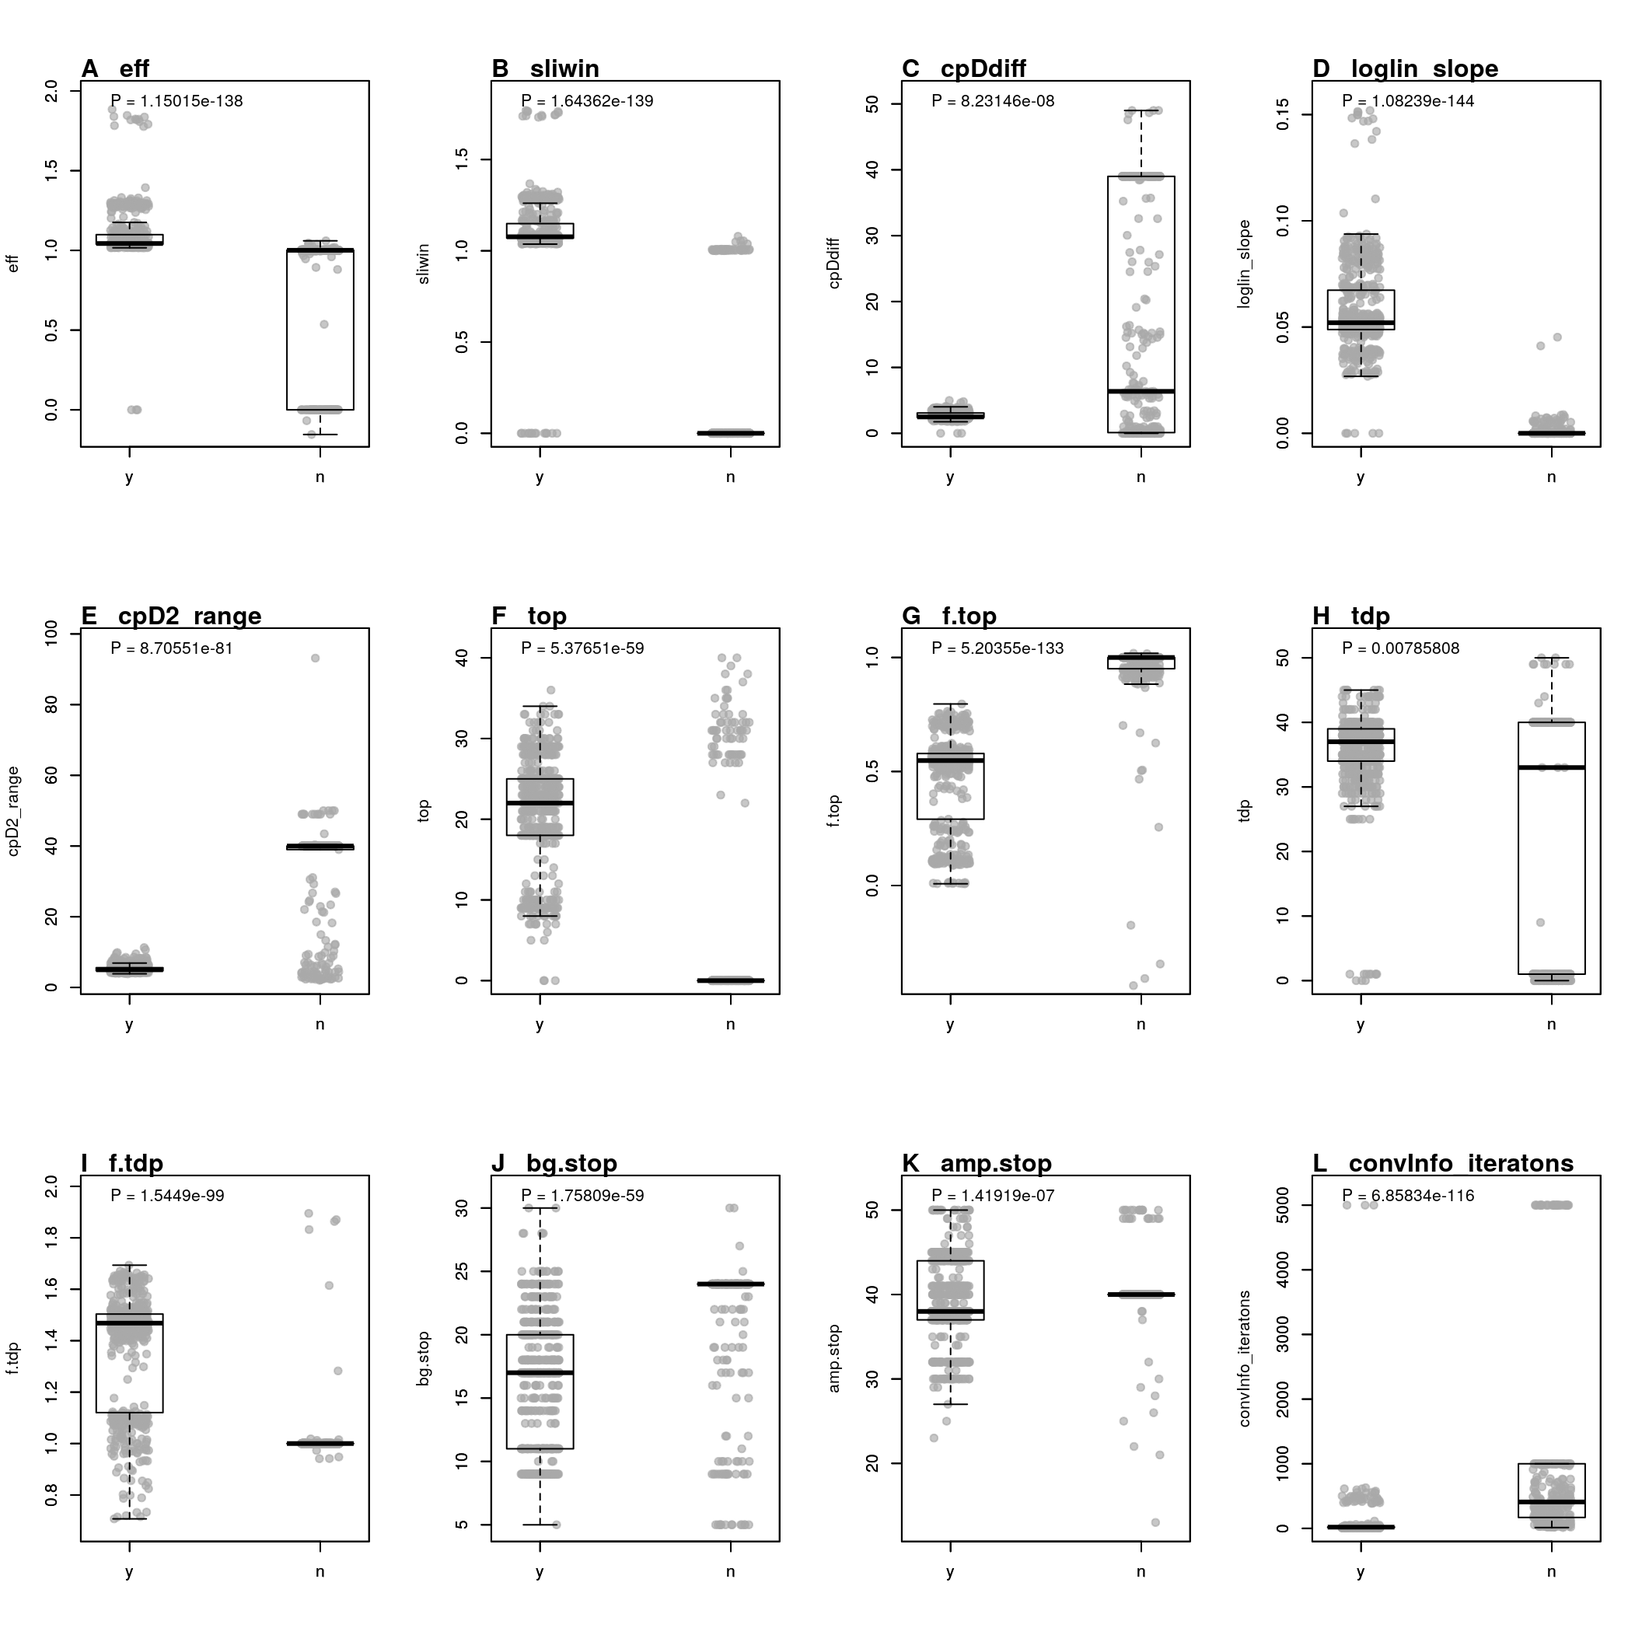
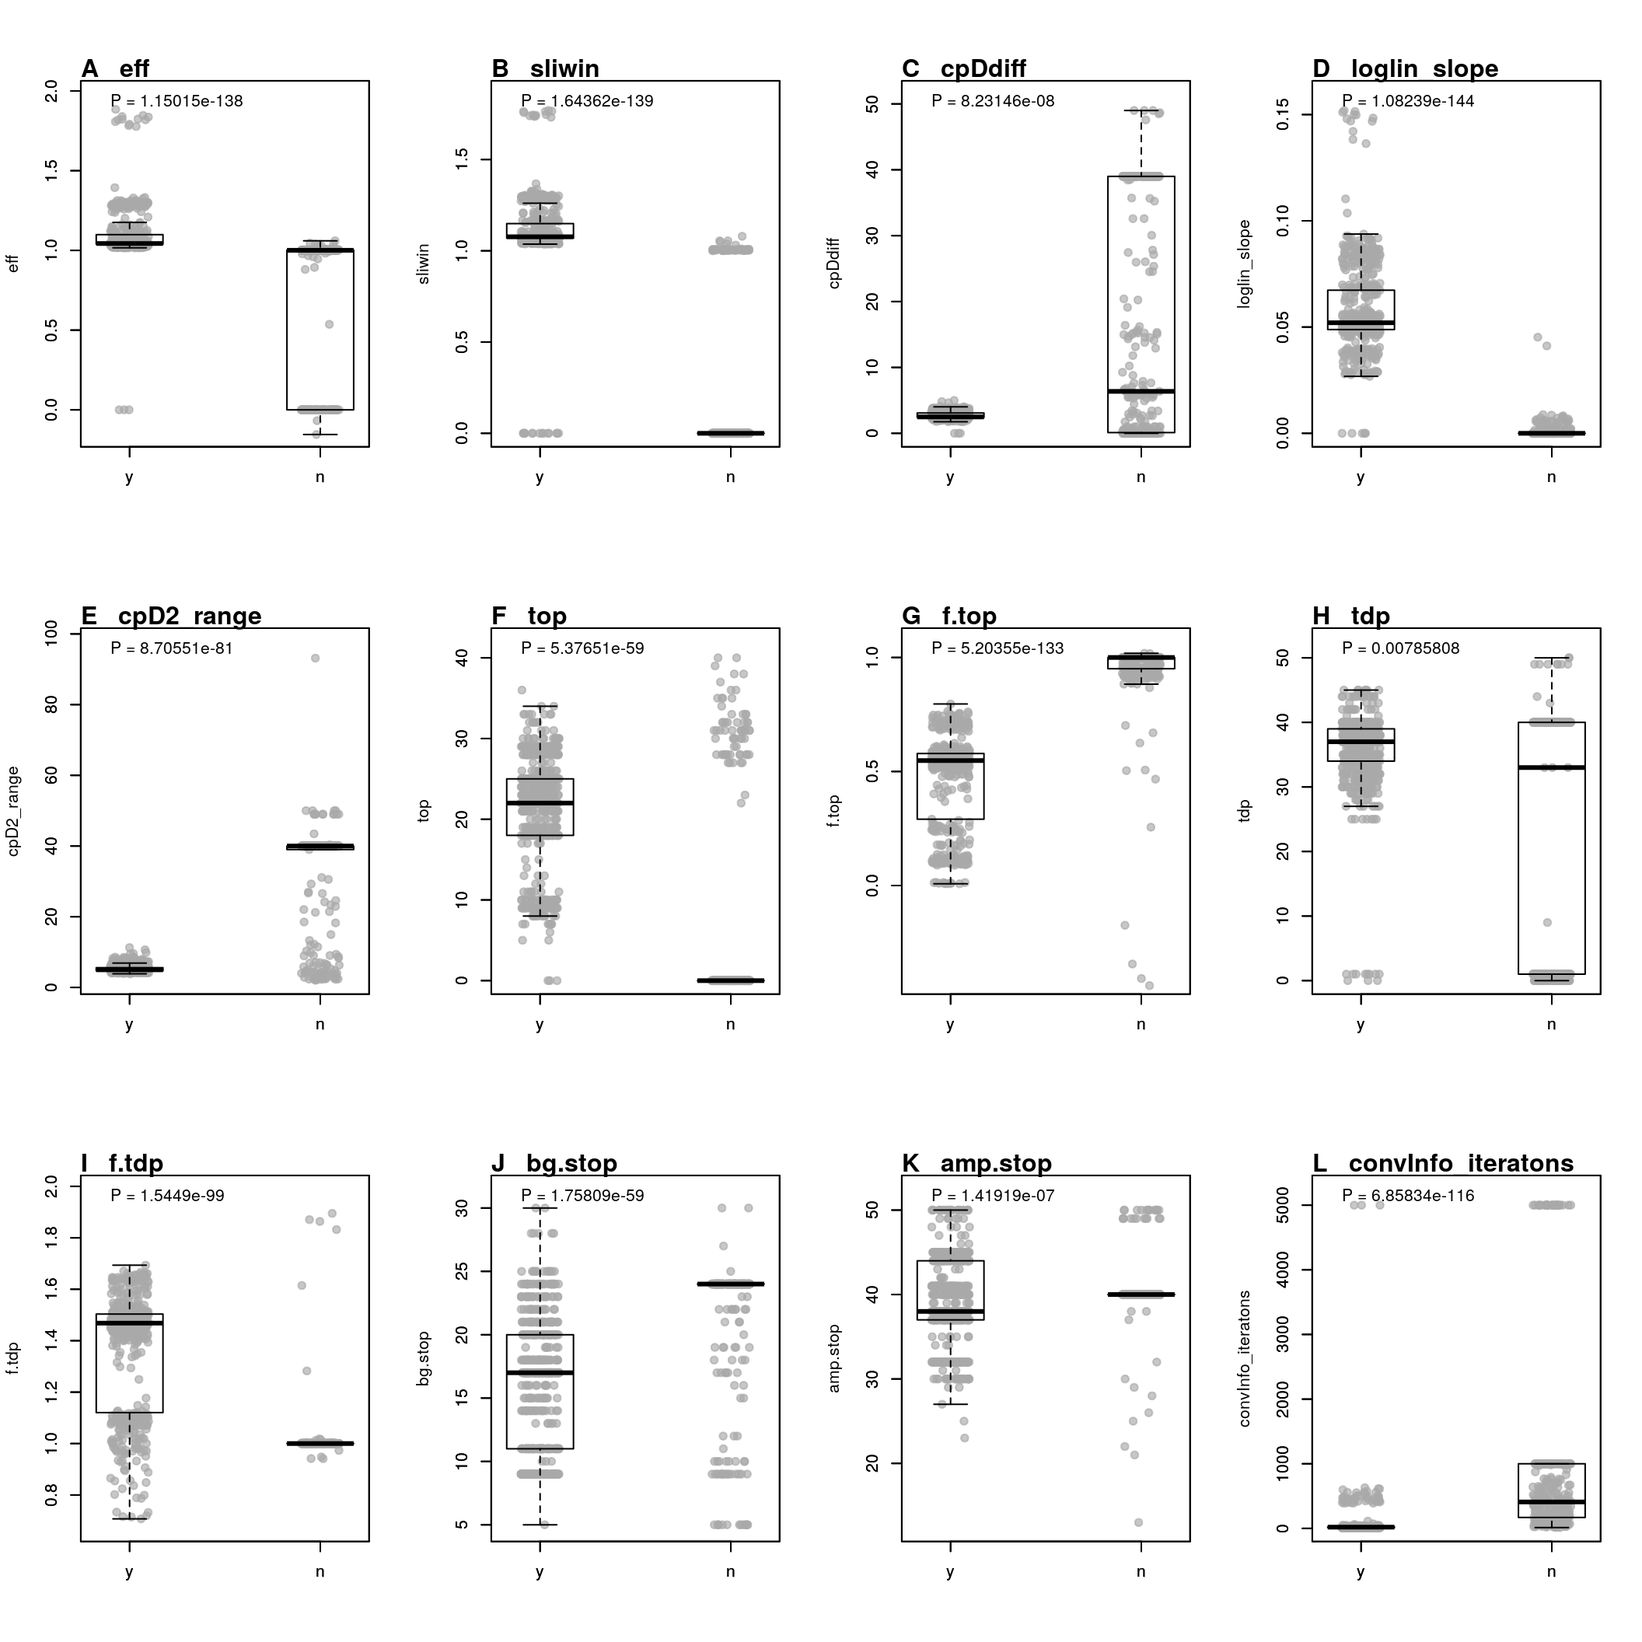
pcrfit_single and winklR are now more robust do noise in data

diff --git a/docs/reference/winklR.html b/docs/reference/winklR.html
@@ -114,9 +114,6 @@ The output contains the angle." />
   </a>
   <ul class="dropdown-menu" role="menu">
     <li>
-      <a href="../articles/PCRedux.Rmd_xuOEaG.rkward_preview.html">PCRedux package - an overview</a>
-    </li>
-    <li>
       <a href="../articles/SI1.html">Algorithms for Automatized Detection of Hook Effect-bearing Amplification Curves</a>
     </li>
   </ul>
@@ -185,7 +182,7 @@ data should be normalized to the 99 percent percentile of the amplification curv
     <tr>
       <th>preprocess</th>
       <td><p>is a logical parameter, which indicates if the amplification curve
-data should be smoothed (Savitzky-Golay smoothing filter, useful for noisy, jagged data).</p></td>
+data should be smoothed (moving average filter, useful for noisy, jagged data).</p></td>
     </tr>
     </table>
 
@@ -205,38 +202,38 @@ data should be smoothed (Savitzky-Golay smoothing filter, useful for noisy, jagg
   <span class='kw'>main</span> <span class='kw'>=</span> <span class='st'>"RAS002 data set"</span>, <span class='kw'>lty</span> <span class='kw'>=</span> <span class='fl'>1</span>, <span class='kw'>type</span> <span class='kw'>=</span> <span class='st'>"l"</span>
 )</div><div class='img'><img src='winklR-1.png' alt='' width='700' height='433' /></div><div class='input'><span class='no'>res</span> <span class='kw'>&lt;-</span> <span class='fu'>winklR</span>(<span class='kw'>x</span> <span class='kw'>=</span> <span class='no'>RAS002</span>[, <span class='fl'>1</span>], <span class='kw'>y</span> <span class='kw'>=</span> <span class='no'>RAS002</span>[, <span class='fl'>2</span>])
 <span class='no'>res</span></div><div class='output co'>#&gt; $angle
-#&gt; [1] 0.9993859
+#&gt; [1] 0.9992592
 #&gt; 
 #&gt; $origin
 #&gt;               x         y
-#&gt; origin 28.37007 -139.4272
+#&gt; origin 28.40128 -131.7579
 #&gt; 
 #&gt; $p1
 #&gt;           x         y
-#&gt; p1 26.13105 -40.00269
+#&gt; p1 26.03566 -34.89072
 #&gt; 
 #&gt; $p2
-#&gt;        x        y
-#&gt; p2 30.52 32.12933
+#&gt;           x        y
+#&gt; p2 30.65694 28.46814
 #&gt; </div><div class='input'><span class='fu'><a href='https://rdrr.io/r/graphics/plot.html'>plot</a></span>(<span class='fu'><a href='https://rdrr.io/r/base/cbind.html'>rbind</a></span>(<span class='no'>res</span>$<span class='no'>origin</span>, <span class='no'>res</span>$<span class='no'>p1</span>, <span class='no'>res</span>$<span class='no'>p2</span>), <span class='kw'>col</span> <span class='kw'>=</span> <span class='fu'><a href='https://rdrr.io/r/base/c.html'>c</a></span>(<span class='st'>"black"</span>, <span class='st'>"green"</span>, <span class='st'>"blue"</span>))</div><div class='img'><img src='winklR-2.png' alt='' width='700' height='433' /></div><div class='input'>
 <span class='fu'><a href='https://rdrr.io/r/graphics/plot.html'>plot</a></span>(<span class='no'>RAS002</span>[, <span class='fl'>1</span>],
   <span class='kw'>y</span> <span class='kw'>=</span> <span class='no'>RAS002</span>[, <span class='fl'>7</span>], <span class='kw'>xlab</span> <span class='kw'>=</span> <span class='st'>"Cycle"</span>, <span class='kw'>ylab</span> <span class='kw'>=</span> <span class='st'>"RFU"</span>,
   <span class='kw'>main</span> <span class='kw'>=</span> <span class='st'>"RAS002 data set"</span>, <span class='kw'>lty</span> <span class='kw'>=</span> <span class='fl'>1</span>, <span class='kw'>type</span> <span class='kw'>=</span> <span class='st'>"l"</span>
 )</div><div class='img'><img src='winklR-3.png' alt='' width='700' height='433' /></div><div class='input'><span class='no'>res</span> <span class='kw'>&lt;-</span> <span class='fu'>winklR</span>(<span class='kw'>x</span> <span class='kw'>=</span> <span class='no'>RAS002</span>[, <span class='fl'>1</span>], <span class='kw'>y</span> <span class='kw'>=</span> <span class='no'>RAS002</span>[, <span class='fl'>7</span>])
 <span class='no'>res</span></div><div class='output co'>#&gt; $angle
-#&gt; [1] 0.9999176
+#&gt; [1] 0.8825482
 #&gt; 
 #&gt; $origin
 #&gt;               x         y
-#&gt; origin 35.28768 -19.39072
+#&gt; origin 34.02938 -19.53181
 #&gt; 
 #&gt; $p1
 #&gt;           x         y
-#&gt; p1 28.32055 -4.216406
+#&gt; p1 28.54223 -3.497543
 #&gt; 
 #&gt; $p2
-#&gt;          x       y
-#&gt; p2 24.9437 2.39646
+#&gt;           x         y
+#&gt; p2 36.86464 -1.942804
 #&gt; </div><div class='input'><span class='fu'><a href='https://rdrr.io/r/graphics/plot.html'>plot</a></span>(<span class='fu'><a href='https://rdrr.io/r/base/cbind.html'>rbind</a></span>(<span class='no'>res</span>$<span class='no'>origin</span>, <span class='no'>res</span>$<span class='no'>p1</span>, <span class='no'>res</span>$<span class='no'>p2</span>), <span class='kw'>col</span> <span class='kw'>=</span> <span class='fu'><a href='https://rdrr.io/r/base/c.html'>c</a></span>(<span class='st'>"black"</span>, <span class='st'>"green"</span>, <span class='st'>"blue"</span>))</div><div class='img'><img src='winklR-4.png' alt='' width='700' height='433' /></div><div class='input'>
 <span class='no'>res_angles</span> <span class='kw'>&lt;-</span> <span class='fu'><a href='https://rdrr.io/r/base/unlist.html'>unlist</a></span>(<span class='fu'><a href='https://rdrr.io/r/base/lapply.html'>lapply</a></span>(<span class='fl'>2</span>:<span class='fl'>21</span>, <span class='kw'>function</span>(<span class='no'>i</span>) {
   <span class='fu'>winklR</span>(<span class='no'>RAS002</span>[, <span class='fl'>1</span>], <span class='no'>RAS002</span>[, <span class='no'>i</span>])$<span class='no'>angle</span>

diff --git a/docs/articles/PCRedux.html b/docs/articles/PCRedux.html
@@ -57,9 +57,6 @@
   </a>
   <ul class="dropdown-menu" role="menu">
 <li>
-      <a href="../articles/PCRedux.Rmd_xuOEaG.rkward_preview.html">PCRedux package - an overview</a>
-    </li>
-    <li>
       <a href="../articles/SI1.html">Algorithms for Automatized Detection of Hook Effect-bearing Amplification Curves</a>
     </li>
   </ul>
@@ -553,7 +550,7 @@ Frequently used methods for the analysis of quantification points. A) The amplif
 ##  $ sliwin               : num 1.04
 ##  $ cpDdiff              : num 2.19
 ##  $ loglin_slope         : num 0.0343
-##  $ cpD2_range           : num 4.48
+##  $ cpD2_range           : num 4.62
 ##  $ top                  : num 25
 ##  $ f.top                : num 0.748
 ##  $ tdp                  : num 35
@@ -581,10 +578,10 @@ Frequently used methods for the analysis of quantification points. A) The amplif
 ##  $ mblrr_intercept_pt   : num 0.774
 ##  $ mblrr_cor_pt         : num 0.942
 ##  $ polyarea             : num 0.0409
-##  $ peaks_ratio          : num 0.0117
+##  $ peaks_ratio          : num 0.00922
 ##  $ autocorellation      : num 0.741
 ##  $ cp_e.agglo           : int 2
-##  $ cp_bcp               : int 10
+##  $ cp_bcp               : int 6
 ##  $ amptester_shapiro    : logi FALSE
 ##  $ amptester_lrt        : logi TRUE
 ##  $ amptester_rgt        : logi TRUE
@@ -831,23 +828,23 @@ Concept of the <code>loglin\_slope</code> predictor. The algorithm determines th
 ##     data = train_data)
 ## 
 ## Deviance Residuals: 
-##     Min       1Q   Median       3Q      Max  
-## -3.3024  -0.1641  -0.1641   0.0048   2.9375  
+##      Min        1Q    Median        3Q       Max  
+## -0.52587  -0.13687  -0.13687   0.00016   3.05786  
 ## 
 ## Coefficients:
 ##              Estimate Std. Error z value Pr(&gt;|z|)    
-## (Intercept)   -4.3010     0.5342  -8.051 8.19e-16 ***
-## loglin_slope 215.6052    25.6492   8.406  &lt; 2e-16 ***
+## (Intercept)   -4.6659     0.6184  -7.545 4.54e-14 ***
+## loglin_slope 314.3773    68.4395   4.594 4.36e-06 ***
 ## ---
 ## Signif. codes:  0 '***' 0.001 '**' 0.01 '*' 0.05 '.' 0.1 ' ' 1
 ## 
 ## (Dispersion parameter for binomial family taken to be 1)
 ## 
-##     Null deviance: 632.141  on 455  degrees of freedom
-## Residual deviance:  59.995  on 454  degrees of freedom
-## AIC: 63.995
+##     Null deviance: 632.071  on 455  degrees of freedom
+## Residual deviance:  35.161  on 454  degrees of freedom
+## AIC: 39.161
 ## 
-## Number of Fisher Scoring iterations: 9</code></pre>
+## Number of Fisher Scoring iterations: 11</code></pre>
 <p>Based on the results it can be concluded that the parameters <code>(intercept)</code> and <code>loglin_slope</code> are statistically significant (<em>P</em> &lt; 2e-16). This indicates an association between <code>loglin_slope</code> and the probability that an amplification curve is positive.</p>
 <p>In order to apply the model to a new data set, further steps are necessary. <code><a href="https://rdrr.io/r/stats/predict.html">predict()</a></code> [] is a generic function for predicting the results of a model fitting function (A). All previously split test data is passed to the function argument <code>newdata</code>. By setting the <code>type = 'response'</code> parameter, the <code><a href="https://rdrr.io/r/stats/predict.html">predict()</a></code> function returns probabilities in the form of <span class="math inline">\(P(y=1|X)\)</span>. In the case in hand, it was decided that a decision limit of 0.5 is to be applied. If <span class="math inline">\(P(y=1|X) &lt; 0.5\)</span> then <span class="math inline">\(y = 0\)</span> (amplification curve negative), otherwise <span class="math inline">\(y = 1\)</span> (amplification curves positive).</p>
 <div class="sourceCode" id="cb23"><pre class="sourceCode r"><code class="sourceCode r"><a class="sourceLine" id="cb23-1" title="1"><span class="kw"><a href="https://rdrr.io/r/base/library.html">library</a></span>(PCRedux)</a>

diff --git a/docs/reference/encu.html b/docs/reference/encu.html
@@ -100,9 +100,6 @@ performing the analysis for a single process." />
   </a>
   <ul class="dropdown-menu" role="menu">
     <li>
-      <a href="../articles/PCRedux.Rmd_xuOEaG.rkward_preview.html">PCRedux package - an overview</a>
-    </li>
-    <li>
       <a href="../articles/SI1.html">Algorithms for Automatized Detection of Hook Effect-bearing Amplification Curves</a>
     </li>
   </ul>
@@ -172,8 +169,8 @@ identical to the <code><a href='pcrfit_single.html'>pcrfit_single</a></code> fun
 
 <span class='fu'><a href='https://rdrr.io/r/base/library.html'>library</a></span>(<span class='no'>qpcR</span>)
 <span class='no'>res_encu</span> <span class='kw'>&lt;-</span> <span class='fu'>encu</span>(<span class='no'>testdat</span>[, <span class='fl'>1</span>:<span class='fl'>3</span>])</div><div class='output co'>#&gt; <span class='message'>Loading required package: bcp</span></div><div class='output co'>#&gt; <span class='message'>Loading required package: grid</span></div><div class='input'><span class='no'>res_encu</span></div><div class='output co'>#&gt;   runs  cpD1  cpD2      eff   sliwin cpDdiff loglin_slope cpD2_range top
-#&gt; 1 F1.1 17.49 15.62 1.819425 1.739444    1.87    0.1382870   4.368862  10
-#&gt; 2 F1.2 17.39 15.59 1.782711 1.737737    1.80    0.1421122   4.258406  10
+#&gt; 1 F1.1 17.49 15.62 1.819425 1.739444    1.87    0.1382870   4.527127  10
+#&gt; 2 F1.2 17.39 15.59 1.782711 1.737737    1.80    0.1421122   4.496545  10
 #&gt;        f.top tdp     f.tdp bg.stop amp.stop   b_slope f_intercept
 #&gt; 1 0.01391000  27 0.9712161       9       30 -12.73839   0.9283718
 #&gt; 2 0.01330955  28 0.9853867       9       27 -13.90384   0.7622996
@@ -187,10 +184,10 @@ identical to the <code><a href='pcrfit_single.html'>pcrfit_single</a></code> fun
 #&gt; 1  -0.0003719424       -0.006442819    0.001572672    0.9323391
 #&gt; 2  -0.0002171012       -0.006274295    0.001548088    0.9198655
 #&gt;   mblrr_intercept_pt mblrr_cor_pt   polyarea peaks_ratio autocorellation
-#&gt; 1           1.008902            0 -0.1559269  0.02573190       0.4883720
-#&gt; 2           1.001047            0 -0.1684371  0.03146392       0.4402242
+#&gt; 1           1.008902            0 -0.1559269  0.02584771       0.4883720
+#&gt; 2           1.001047            0 -0.1684371  0.03090811       0.4402242
 #&gt;   cp_e.agglo cp_bcp amptester_shapiro amptester_lrt amptester_rgt amptester_tht
-#&gt; 1          2     10             FALSE          TRUE          TRUE          TRUE
+#&gt; 1          2     14             FALSE          TRUE          TRUE          TRUE
 #&gt; 2          2     12             FALSE          TRUE          TRUE          TRUE
 #&gt;   amptester_slt amptester_polygon amptester_slope.ratio hookreg_hook
 #&gt; 1          TRUE          4.742807             0.2223128            1

diff --git a/docs/reference/run_PCRedux.html b/docs/reference/run_PCRedux.html
@@ -36,7 +36,7 @@
 
 
 <meta property="og:title" content="PCRedux app — run_PCRedux" />
-<meta property="og:description" content="A graphical user interface for compute the properties of amplification curves." />
+<meta property="og:description" content="A graphical user interface for computing the properties of amplification curves. Take a look at the vignette to learn more about the different ways to start the app." />
 <meta name="twitter:card" content="summary" />
 
 
@@ -95,9 +95,6 @@
   </a>
   <ul class="dropdown-menu" role="menu">
     <li>
-      <a href="../articles/PCRedux.Rmd_xuOEaG.rkward_preview.html">PCRedux package - an overview</a>
-    </li>
-    <li>
       <a href="../articles/SI1.html">Algorithms for Automatized Detection of Hook Effect-bearing Amplification Curves</a>
     </li>
   </ul>
@@ -124,7 +121,7 @@
     </div>
 
     <div class="ref-description">
-    <p>A graphical user interface for compute the properties of amplification curves.</p>
+    <p>A graphical user interface for computing the properties of amplification curves. Take a look at the vignette to learn more about the different ways to start the app.</p>
     </div>
 
     <pre class="usage"><span class='fu'>run_PCRedux</span>()</pre>

diff --git a/docs/articles/index.html b/docs/articles/index.html
@@ -93,9 +93,6 @@
   </a>
   <ul class="dropdown-menu" role="menu">
     <li>
-      <a href="../articles/PCRedux.Rmd_xuOEaG.rkward_preview.html">PCRedux package - an overview</a>
-    </li>
-    <li>
       <a href="../articles/SI1.html">Algorithms for Automatized Detection of Hook Effect-bearing Amplification Curves</a>
     </li>
   </ul>
@@ -125,7 +122,6 @@
 
       <ul>
         <li><a href="PCRedux.html">PCRedux package - an overview</a></li>
-        <li><a href="PCRedux.Rmd_xuOEaG.rkward_preview.html">PCRedux package - an overview</a></li>
         <li><a href="SI1.html">Algorithms for Automatized Detection of Hook Effect-bearing Amplification Curves</a></li>
       </ul>
     </div>

diff --git a/docs/reference/hookregNL.html b/docs/reference/hookregNL.html
@@ -100,9 +100,6 @@ amplification curve and extracts the coefficient, which describes the slope." />
   </a>
   <ul class="dropdown-menu" role="menu">
     <li>
-      <a href="../articles/PCRedux.Rmd_xuOEaG.rkward_preview.html">PCRedux package - an overview</a>
-    </li>
-    <li>
       <a href="../articles/SI1.html">Algorithms for Automatized Detection of Hook Effect-bearing Amplification Curves</a>
     </li>
   </ul>

diff --git a/docs/reference/decision_modus.html b/docs/reference/decision_modus.html
@@ -99,9 +99,6 @@ condensed to a single decision (3 x &quot;a&quot;, 2 x &quot;n&quot; -&amp;gt; &
   </a>
   <ul class="dropdown-menu" role="menu">
     <li>
-      <a href="../articles/PCRedux.Rmd_xuOEaG.rkward_preview.html">PCRedux package - an overview</a>
-    </li>
-    <li>
       <a href="../articles/SI1.html">Algorithms for Automatized Detection of Hook Effect-bearing Amplification Curves</a>
     </li>
   </ul>

diff --git a/docs/reference/head2tailratio.html b/docs/reference/head2tailratio.html
@@ -100,9 +100,6 @@ tail of a quantitative PCR amplification curve. In this test, only the head
   </a>
   <ul class="dropdown-menu" role="menu">
     <li>
-      <a href="../articles/PCRedux.Rmd_xuOEaG.rkward_preview.html">PCRedux package - an overview</a>
-    </li>
-    <li>
       <a href="../articles/SI1.html">Algorithms for Automatized Detection of Hook Effect-bearing Amplification Curves</a>
     </li>
   </ul>

diff --git a/docs/reference/autocorrelation_test.html b/docs/reference/autocorrelation_test.html
@@ -103,9 +103,6 @@ autocorrelation and will therefore be &quot;n.s.&quot;." />
   </a>
   <ul class="dropdown-menu" role="menu">
     <li>
-      <a href="../articles/PCRedux.Rmd_xuOEaG.rkward_preview.html">PCRedux package - an overview</a>
-    </li>
-    <li>
       <a href="../articles/SI1.html">Algorithms for Automatized Detection of Hook Effect-bearing Amplification Curves</a>
     </li>
   </ul>

diff --git a/docs/reference/earlyreg.html b/docs/reference/earlyreg.html
@@ -105,9 +105,6 @@ large data sets. Science, 334, 1518-1524 (2011))." />
   </a>
   <ul class="dropdown-menu" role="menu">
     <li>
-      <a href="../articles/PCRedux.Rmd_xuOEaG.rkward_preview.html">PCRedux package - an overview</a>
-    </li>
-    <li>
       <a href="../articles/SI1.html">Algorithms for Automatized Detection of Hook Effect-bearing Amplification Curves</a>
     </li>
   </ul>

diff --git a/docs/reference/hookreg.html b/docs/reference/hookreg.html
@@ -100,9 +100,6 @@ a hook effect (see Barratt and Mackay 2002)." />
   </a>
   <ul class="dropdown-menu" role="menu">
     <li>
-      <a href="../articles/PCRedux.Rmd_xuOEaG.rkward_preview.html">PCRedux package - an overview</a>
-    </li>
-    <li>
       <a href="../articles/SI1.html">Algorithms for Automatized Detection of Hook Effect-bearing Amplification Curves</a>
     </li>
   </ul>

diff --git a/docs/reference/pcrfit_single.html b/docs/reference/pcrfit_single.html
@@ -98,9 +98,6 @@ An example is given in the vignette." />
   </a>
   <ul class="dropdown-menu" role="menu">
     <li>
-      <a href="../articles/PCRedux.Rmd_xuOEaG.rkward_preview.html">PCRedux package - an overview</a>
-    </li>
-    <li>
       <a href="../articles/SI1.html">Algorithms for Automatized Detection of Hook Effect-bearing Amplification Curves</a>
     </li>
   </ul>
